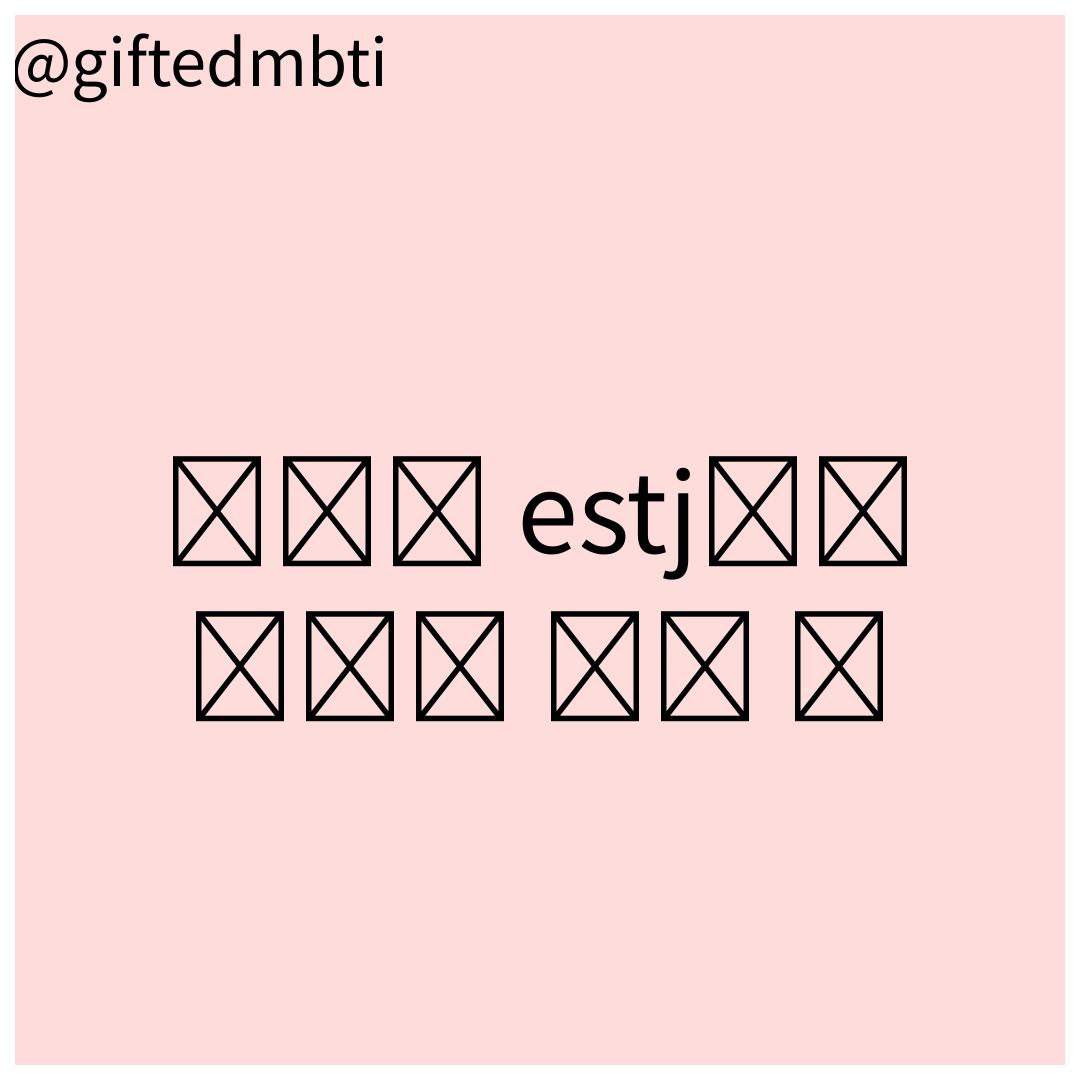
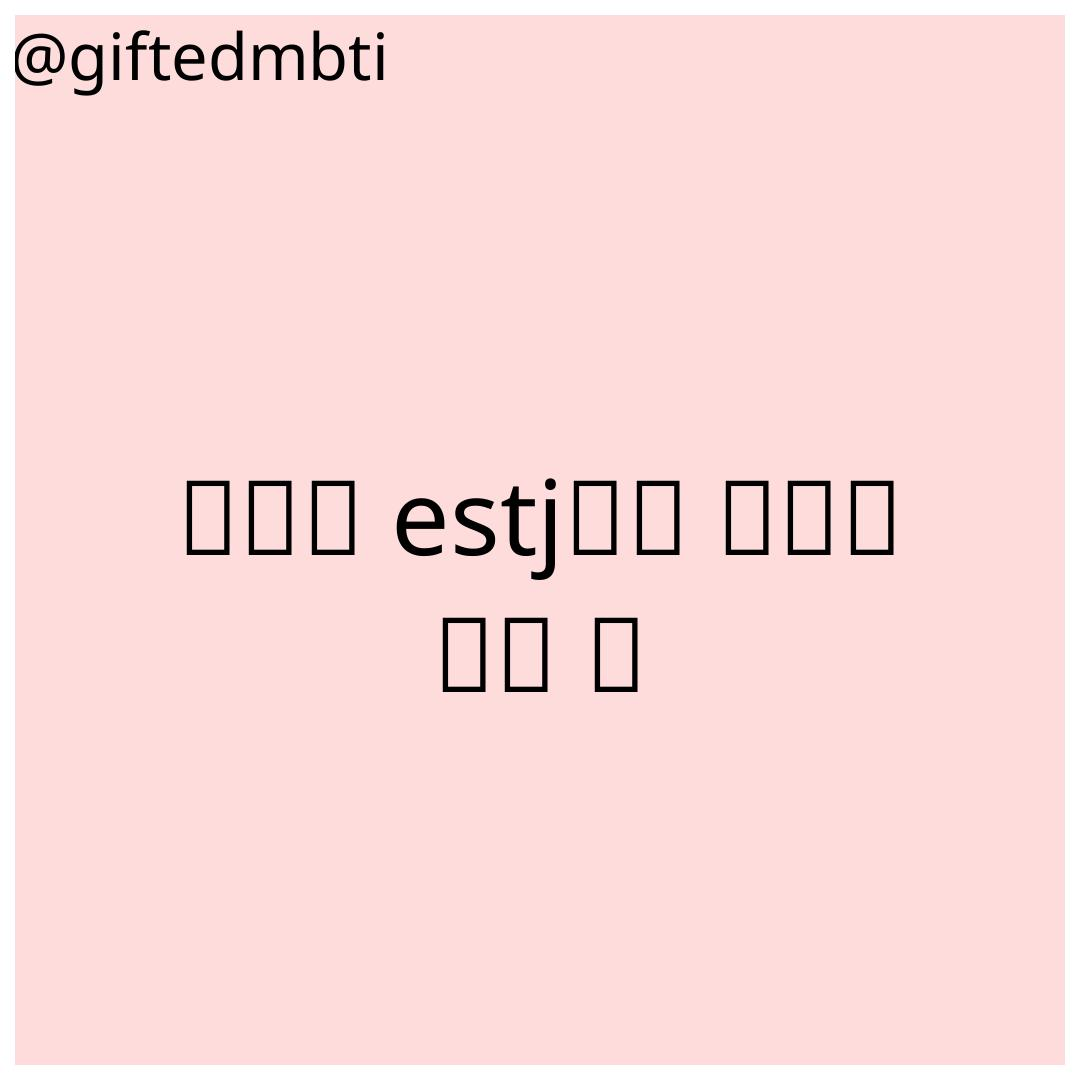
일본어 글자 이슈 해결

Changed region(s): [[0.1528, 0.3972, 0.8556, 0.6722], [0.0, 0.0306, 0.3667, 0.0917]]

diff --git a/createTitleCardByInfo.py b/createTitleCardByInfo.py
@@ -4,7 +4,7 @@ import config
 from remove_emoji import remove_emoji
 from config import BORDER_COLOR, BORDER_WIDTH, DEST_LANG,  IMAGE_SIZE, FONT_PATH, TEXT_COLOR, BACKGROUND_COLOR, TITLE_BLOG_NAME_FONT_SIZE
 from sanitize_filename import sanitize_filename
-
+import unicodedata
 from PIL import ImageFont
 from PIL import ImageFont
 
@@ -37,6 +37,47 @@ def calculate_font_size(font_path, text, max_size, min_size, image_size):
 
     return font, font_size
 
+def is_japanese(text):
+    for char in text:
+        if 'CJK' in unicodedata.name(char, ''):
+            return True
+    return False
+
+def split_text(post_title, max_line_length,font,is_japanese=True):
+    text_lines = []
+    current_line = ""
+    print(f"is_japanese = {is_japanese}")
+
+    if is_japanese:
+
+
+      for char in post_title:
+        test_line = current_line + char
+        test_width, _ = font.getsize(test_line)
+
+        if test_width > max_line_length:
+            text_lines.append(current_line)
+            
+            current_line = char
+        else:
+            current_line = test_line
+
+        
+
+    else:
+        words = post_title.split()
+        for word in words:
+            test_line = current_line + " " + word if current_line else word
+            test_width, _ = font.getsize(test_line)
+            if test_width <= max_line_length:
+                current_line = test_line
+            else:
+                text_lines.append(current_line)
+                current_line = word
+        if current_line:
+            text_lines.append(current_line)
+
+    return text_lines
 
 def createTitleCardByInfo(BlogMetaInfo):
     post_title = remove_emoji(str(BlogMetaInfo['title']))
@@ -65,23 +106,24 @@ def createTitleCardByInfo(BlogMetaInfo):
     font, font_size = calculate_font_size(font_path, post_title, max_font_size, min_font_size,IMAGE_SIZE)
     text_width, text_height = font.getsize(post_title)
     
-
+    max_line_length = 0.8 * IMAGE_SIZE[0]
 
     # 텍스트를 여러 줄로 분할
-    text_lines = []
-    max_line_length = 0.8 * IMAGE_SIZE[0]
-    current_line = ""
-    words = post_title.split()
-    for word in words:
-        test_line = current_line + " " + word if current_line else word
-        test_width, _ = font.getsize(test_line)
-        if test_width <= max_line_length:
-            current_line = test_line
-        else:
-            text_lines.append(current_line)
-            current_line = word
-    if current_line:
-        text_lines.append(current_line)
+    text_lines = split_text(post_title, max_line_length,font, is_japanese(post_title))
+
+    
+    # current_line = ""
+    # words = post_title.split()
+    # for word in words:
+    #     test_line = current_line + " " + word if current_line else word
+    #     test_width, _ = font.getsize(test_line)
+    #     if test_width <= max_line_length:
+    #         current_line = test_line
+    #     else:
+    #         text_lines.append(current_line)
+    #         current_line = word
+    # if current_line:
+    #     text_lines.append(current_line)
     # 기능 분할 필요
 
     # 왼쪽 상단의 블로그 이름의 폰트 크기 적용
@@ -124,4 +166,4 @@ def createTitleCardByInfo(BlogMetaInfo):
 
 if __name__ == "__main__":
     # Test with different blog names and post titles
-    createTitleCardByInfo({'site_name': 'giftedmbti', 'title': '불건강 estj에게 해주고 싶은 말'})
+    createTitleCardByInfo({'site_name': 'giftedmbti', 'title': '[MBTI] INTJとINTPの友情の互換性：お互いをよりよく理解する方法を見つけてください！'})

diff --git a/main.py b/main.py
@@ -8,11 +8,11 @@ from config import DEST_LANG
 from cut_before_first_a_tag import cut_before_first_a_tag
 from generateCardnewsTitleImageByUrl import generateCardnewsTitleImageByUrl
 from getBlogHTMLContent import getBlogHTMLContent
-
 from translateHTML import translate_html
 from uploadToWordpress import uploadToWordpress
 
-
+# 로깅 설정
+logging.basicConfig(level=logging.INFO)  # INFO 레벨 이상의 로그를 출력
 
 # URL 유효성 검사 함수
 def is_valid_url(url):
@@ -38,23 +38,26 @@ def blog_migration_automator(blog_url):
         return
 
     try:
+        # 블로그 컨텐츠 가져오기
+        logging.info("Getting blog content...")
         blog_content = getBlogHTMLContent(blog_url)
-        translated_html = translate_html(cut_before_first_a_tag(blog_content),DEST_LANG)
+
+        # HTML 번역
+        logging.info("Translating HTML content...")
+        translated_html = translate_html(cut_before_first_a_tag(blog_content), DEST_LANG)
+
+        # 카드 뉴스 제목 이미지 생성
+        logging.info("Generating card news title image...")
         generateCardnewsTitleImageByUrl(blog_url)
+
+        # WordPress에 업로드
+        logging.info("Uploading to WordPress...")
         uploadToWordpress(blog_url, translated_html)
+
+        logging.info("Blog migration completed successfully.")
     except Exception as e:
         logging.error(f"Error during blog migration: {str(e)}")
 
 if __name__ == "__main__":
-    test_url = "https://giftedmbti.tistory.com/54"
+    test_url = "https://giftedmbti.tistory.com/13"
     blog_migration_automator(test_url)
-
-    # for i in range(72, 73):
-    #   url = f"https://giftedmbti.tistory.com/{i}"
-    #   blog_migration_automator(url)
-
-
-# 
-# https://giftedmbti.tistory.com/70
-
-# https://giftedmbti.tistory.com/150
